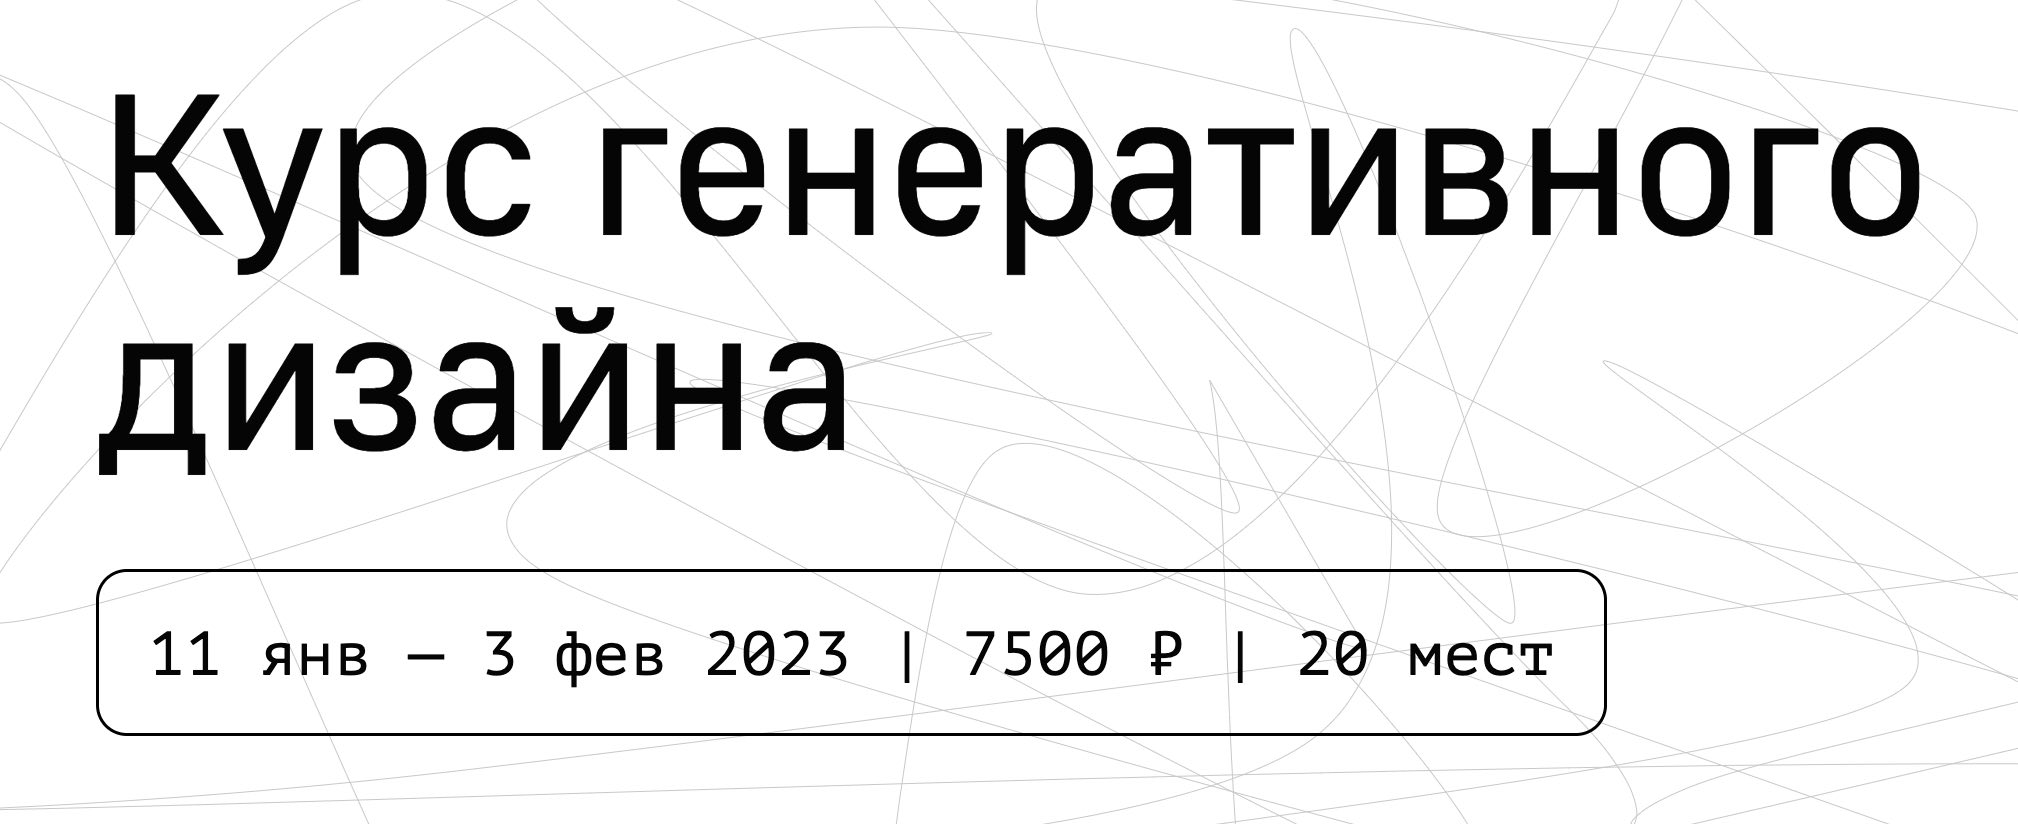
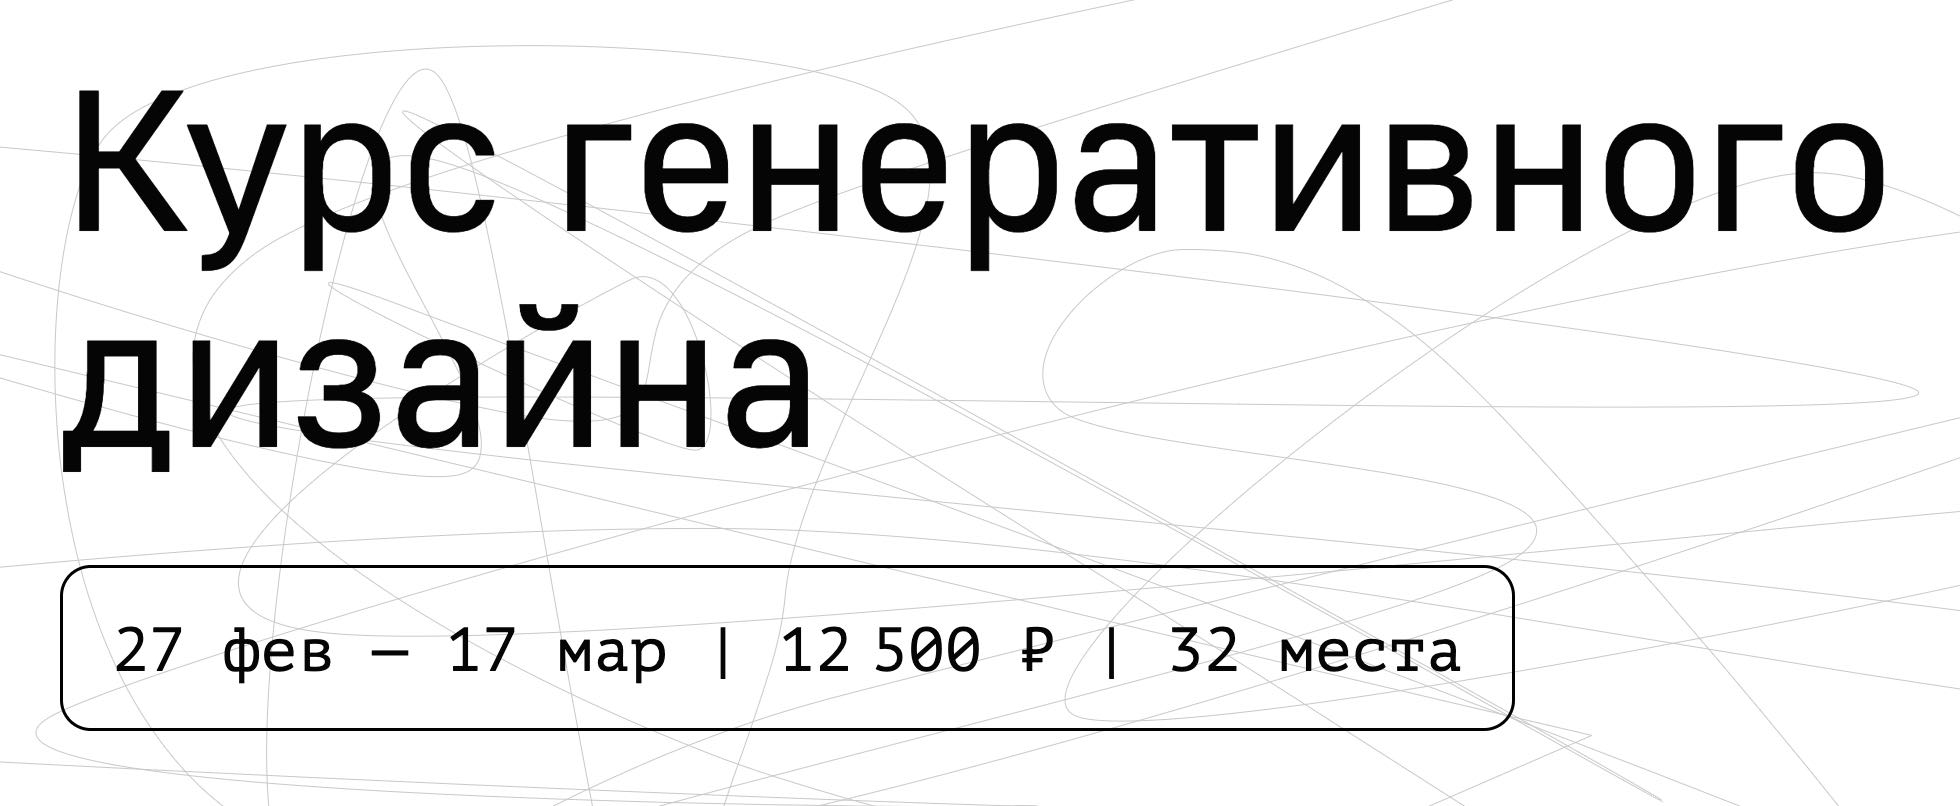
Minor page changes

diff --git a/bot/main.py b/bot/main.py
@@ -12,12 +12,12 @@ load_dotenv()
 TOKEN = os.getenv('TOKEN')
 PAYMENT_PROVIDER_TOKEN = os.getenv('PROVIDER_TOKEN')
 PROMOCODE_PRICES = {
-    'park_f8Ek39v1f': 5500,
+    'park_f8Ek39v1f': 10500,
     'test_nv82REg9a': 100,
-    None: 7500,
+    None: 12500,
 }
 LOG_CHAT_ID = -1001665135759
-SUCCESS_LINK = 'https://t.me/+PsBgiiSkBuJhMGUy'
+SUCCESS_LINK = 'https://t.me/+zx93hyfqrjg3ODBi'
 ADMINS = [115178271, 227496872]
 MODES = ['active', 'contact']
 
@@ -141,7 +141,7 @@ def precheckout_callback(update, context):
 
     query = update.pre_checkout_query
 
-    if query.invoice_payload != "Gendesign-Course-Payload":
+    if data['mode'] != 'active' or query.invoice_payload != "Gendesign-Course-Payload":
         query.answer(ok=False, error_message="Something went wrong...")
     else:
         query.answer(ok=True)
